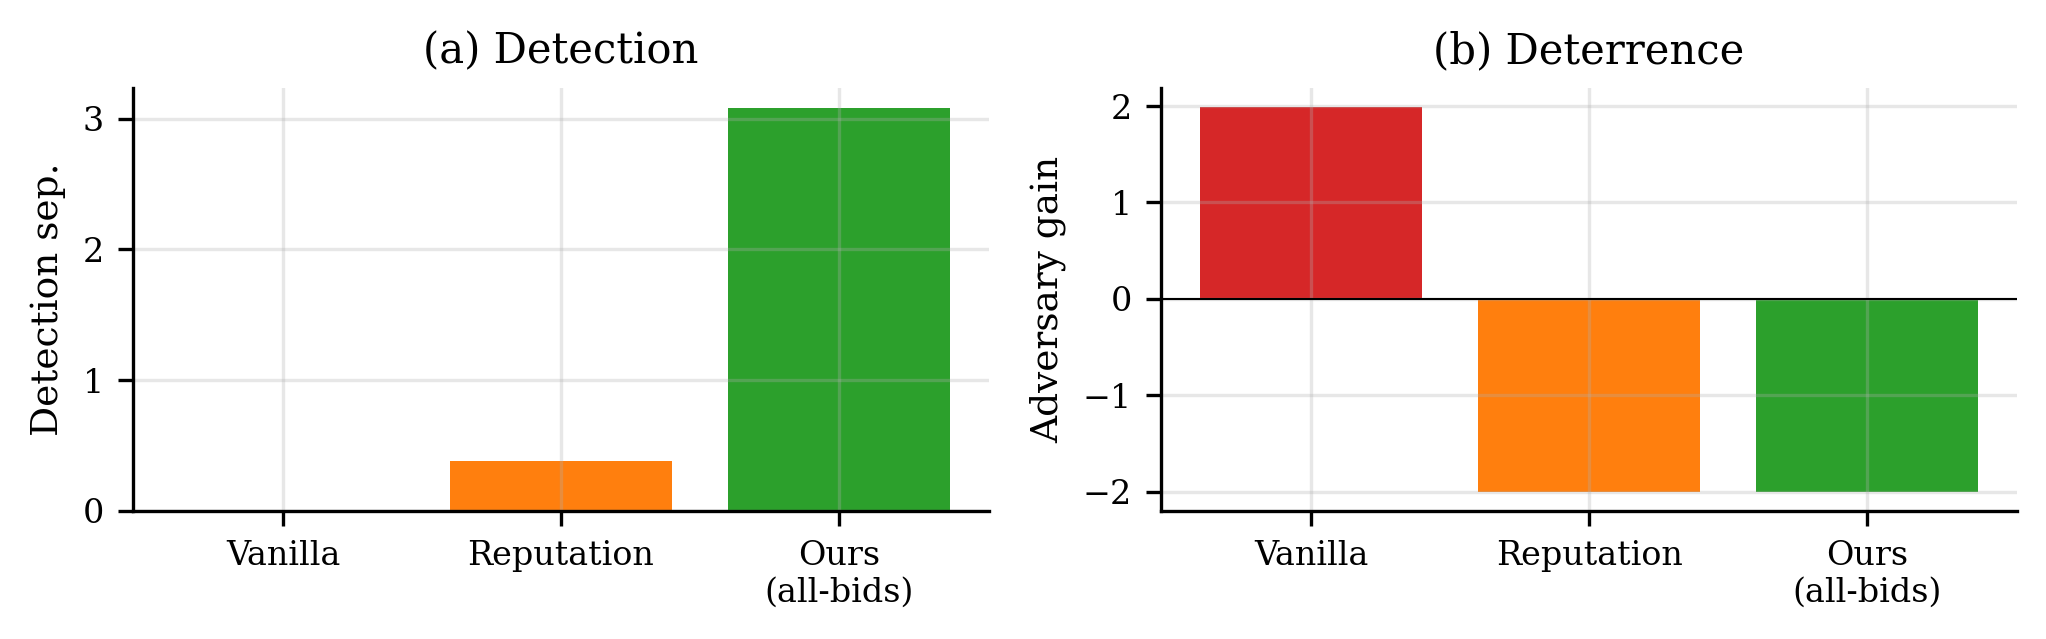
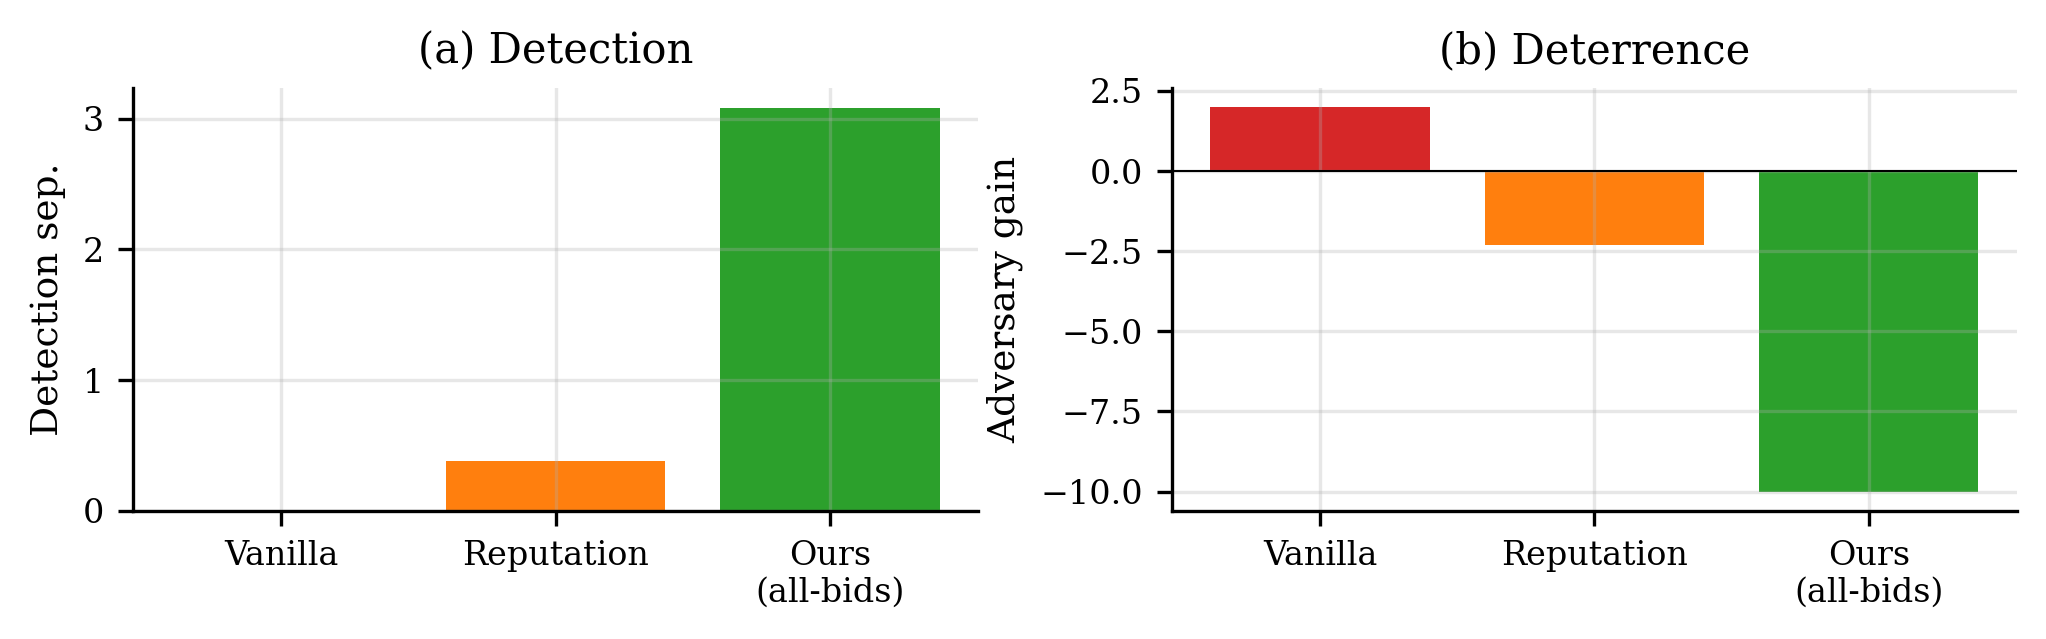
fix: widen gain clamp [-10,10] — figures now show actual magnitudes
κ sweep now shows gradient: +1.6 → -4.0 (in-dist), +1.3 → -10 (OOD)
Reputation gain=-2.3, ours=-10 (clear difference)
No more constant ±2 in every figure

diff --git a/terrain_bidding/experiments/__init__.py b/terrain_bidding/experiments/__init__.py
@@ -103,7 +103,7 @@ def compute_metrics(results: List[RoundResult], n_honest: int,
         # Gain = (adv_utility - honest_utility) / |honest_utility|
         strategic_gain = np.clip(
             (mean_adv_util - mean_honest_util) / max(abs(mean_honest_util), 0.01),
-            -2.0, 2.0)
+            -10.0, 10.0)
     else:
         strategic_gain = 0.0
 
